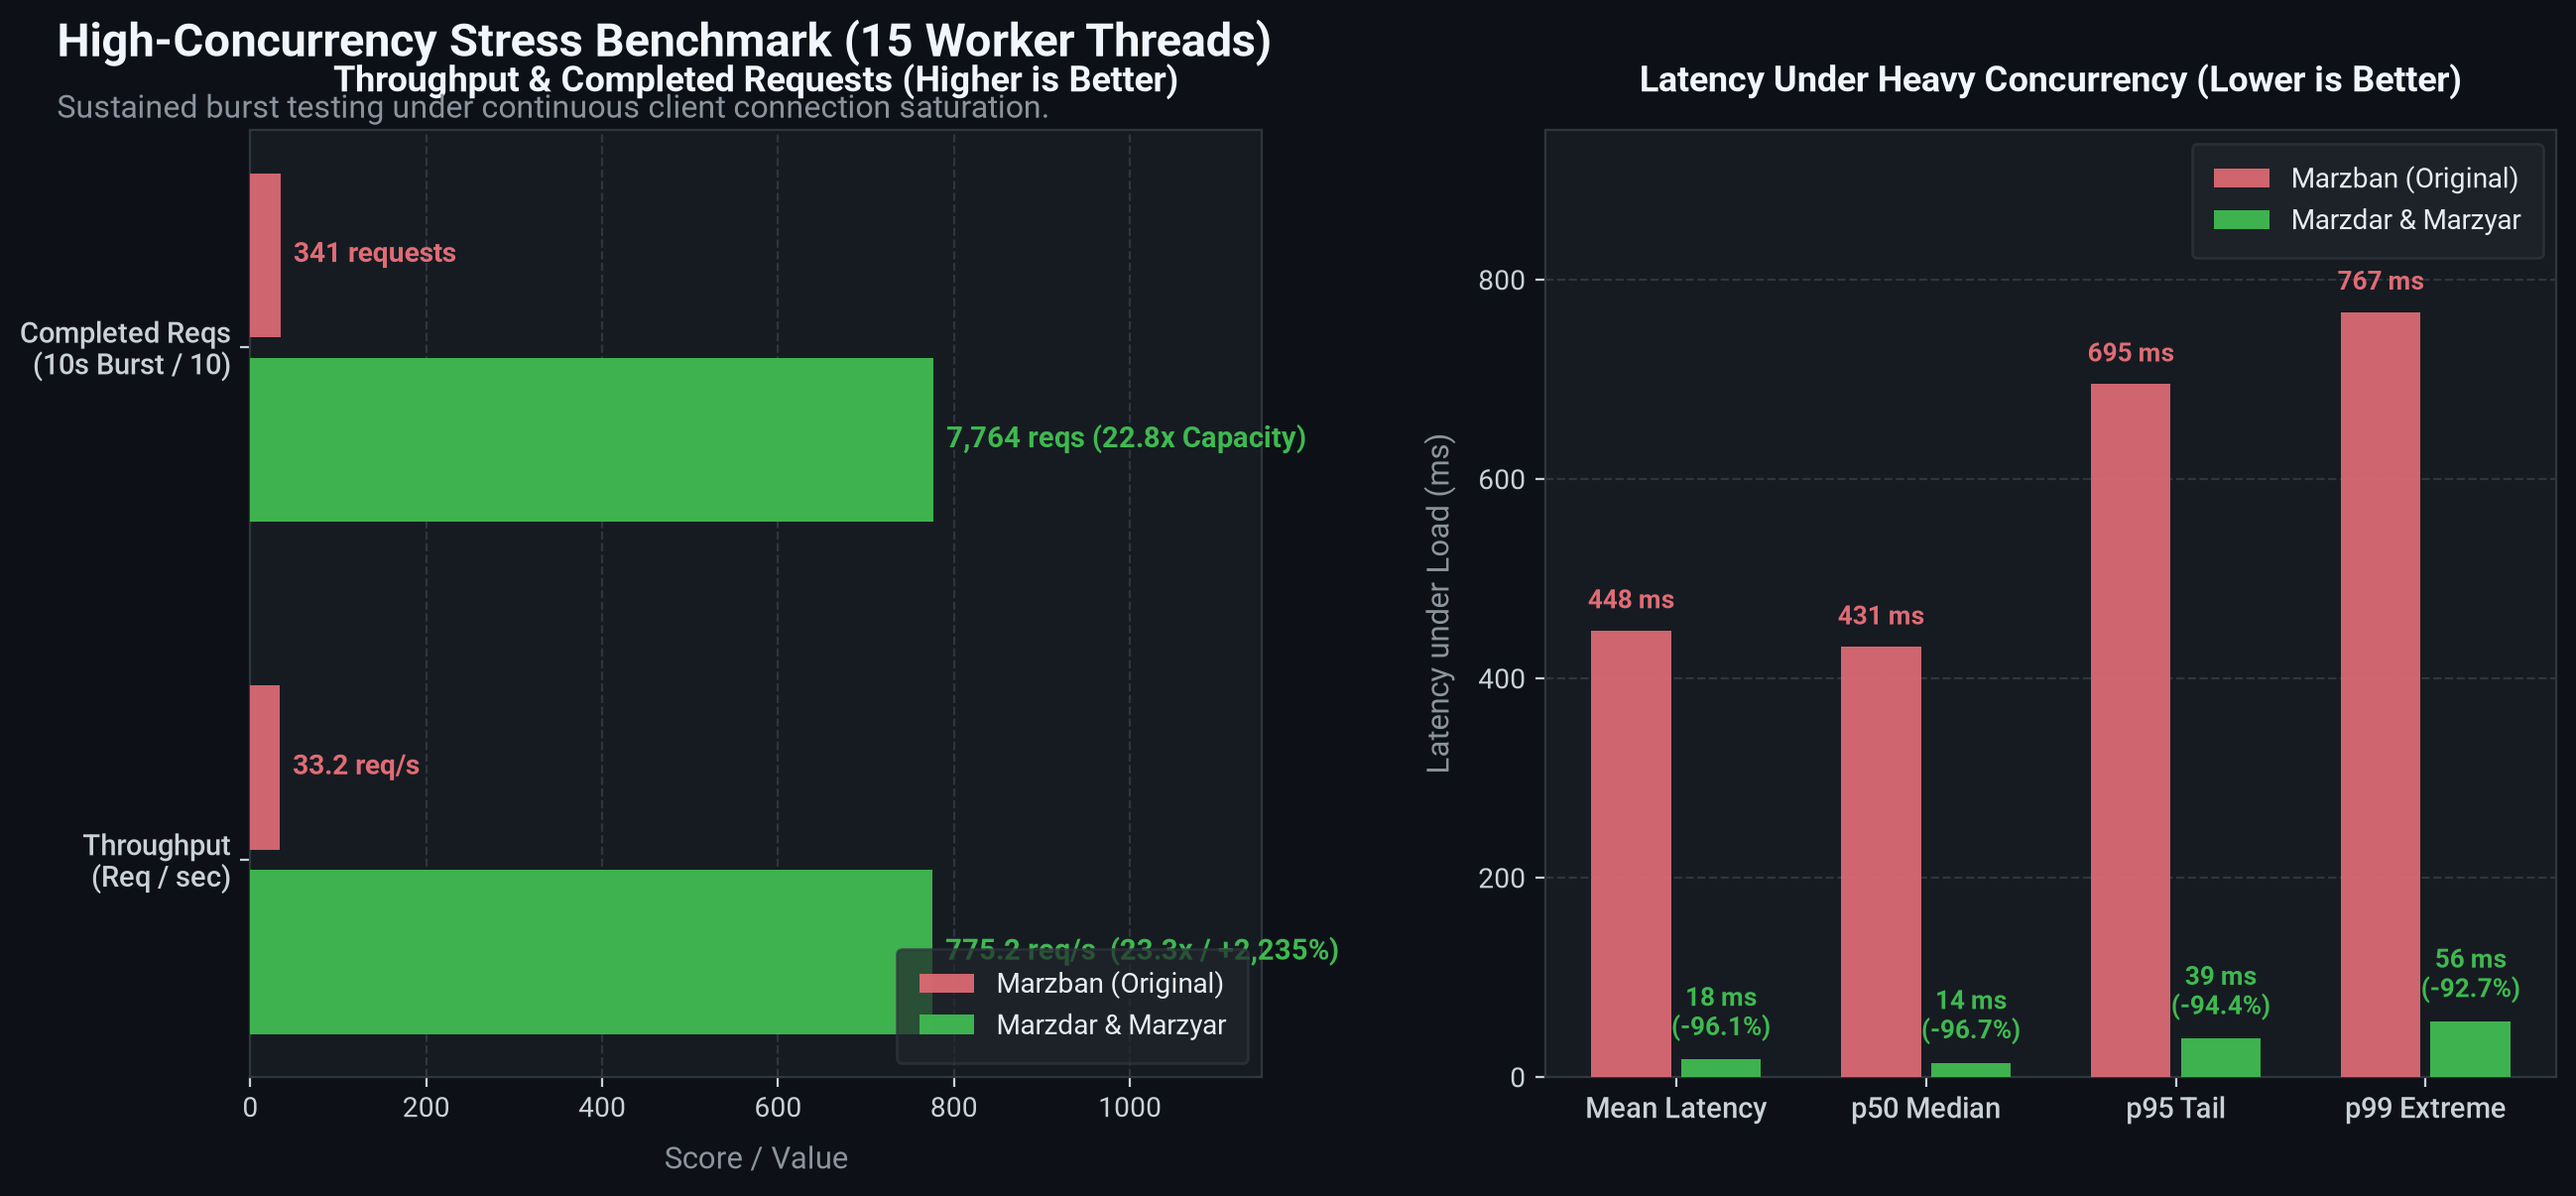
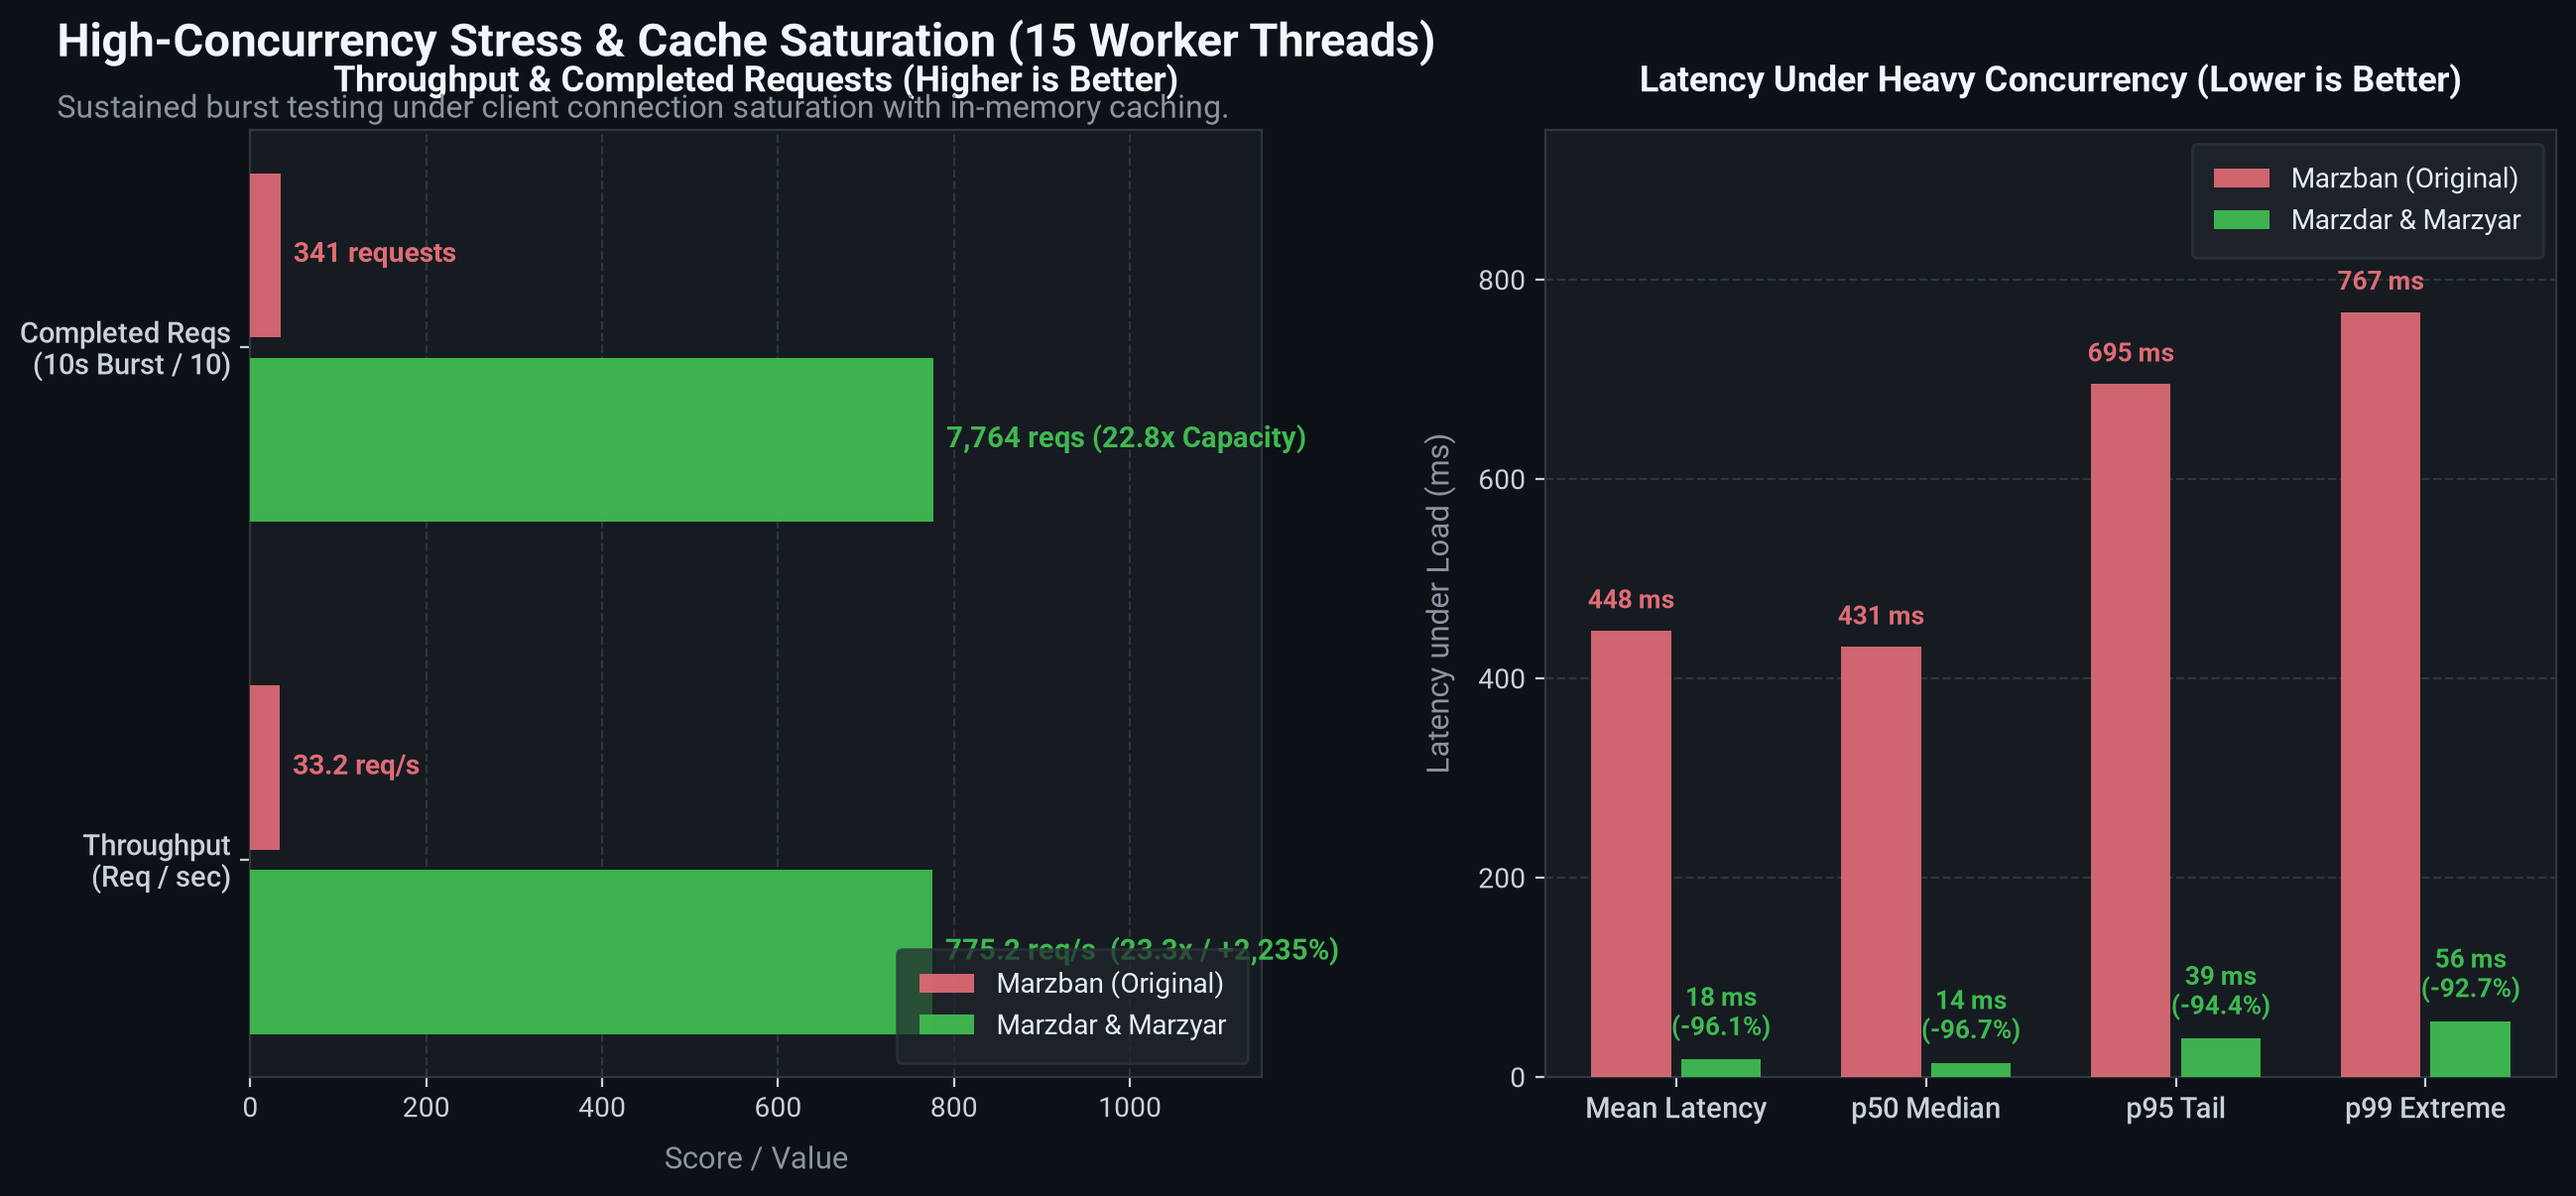
docs(benchmark): clarify cache saturation highlights and consolidate throughput metrics

Changed region(s): [[0.1871, 0.0, 0.5614, 0.1227]]

diff --git a/README-fa.md b/README-fa.md
@@ -300,11 +300,10 @@ curl -X GET "https://your-panel-domain:8000/api/marzyar/locked_users" \
 </p>
 
 ### شاخصهای کلیدی بهبود عملکرد:
-- ⚡ **۸.۶ برابر پاسخدهی سریعتر در میانه**: کاهش میانه (p50) تأخیر پاسخ اشتراک از ۴۶.۲۷ به ۵.۳۷ میلیثانیه (**۸۸.۴٪ سریعتر**).
-- 🚀 **۲,۲۳۵٪+ توان سرویسدهی همزمان بیشتر**: ثبت ۷۷۵.۲ درخواست در ثانیه در برابر ۳۳.۲ درخواست بر ثانیه در تست بار مداوم ۱۵ ورکر همزمان (**۲۳.۳ برابر ظرفیت پردازش**).
-- ⚡ **۹۶.۱٪ کاهش تأخیر زیر بار سنگین همزمان**: کاهش میانگین تأخیر درخواستها در تست بار شدید از ۴۴۷.۶۶ به ۱۷.۵۳ میلیثانیه (**۲۵.۵ برابر سریعتر**).
-- 🗄 **۳۱.۷٪ کاهش فشار بر دیتابیس MySQL**: کاهش جهش مصرف دیتابیس از ۵۳.۶۲٪ به ۳۶.۶۴٪ به کمک کش هوشمند رم و ایندکسهای مرکب حتی زیر بار ۳۶,۰۰۰ کوئری شبیهسازیشده.
-- 📦 **۲۲.۸ برابر ظرفیت سرویسدهی بیشتر**: ثبت ۷,۷۶۴ درخواست موفق در بازه ۱۰ ثانیهای در مقایسه با ۳۴۱ درخواست در مرزبان پایه.
+- ⚡ **۸.۶ برابر پاسخدهی سریعتر در میانه**: کاهش میانه (p50) تأخیر پاسخ اشتراک در مانیتورینگ زنده از ۴۶.۲۷ به ۵.۳۷ میلیثانیه (۸۸.۴٪- کاهش تأخیر).
+- 🚀 **۲۳.۳ برابر توان اشباع با کش حافظه**: ثبت **۷۷۵.۲ درخواست در ثانیه** (۷,۷۶۴ درخواست در ۱۰ ثانیه) در برابر **۳۳.۲ درخواست بر ثانیه** (۳۴۱ درخواست) زیر بار ۱۵ ورکر همزمان (۲,۲۳۵٪+ ظرفیت بیشتر با کش درونحافظهای).
+- ⚡ **۹۶.۱٪- کاهش تأخیر زیر بار سنگین**: کاهش میانگین تأخیر در بار متوالی از ۴۴۷.۶۶ به ۱۷.۵۳ میلیثانیه (۲۵.۵ برابر پاسخدهی سریعتر).
+- 🗄 **۳۱.۷٪ کاهش فشار بر دیتابیس MySQL**: مهار اوج مصرف پردازنده دیتابیس از ۵۳.۶۲٪ به ۳۶.۶۴٪ زیر بار پیوسته به کمک کش رم و ایندکسهای مرکب.
 - 🛡 **۲۵.۶٪ مهار اسپایکهای کندی**: کاهش شدیدترین جهش تأخیر از ۶۰۴.۳۶ به ۴۴۹.۶۳ میلیثانیه در بار پیوسته.
 
 ---
@@ -322,11 +321,11 @@ curl -X GET "https://your-panel-domain:8000/api/marzyar/locked_users" \
 
 | صدک تأخیر (Percentile) | مرزبان اصلی (پیشفرض / Baseline) | مرزدار و مرزیار (بهینهسازیشده) | میزان بهبود |
 | :--- | :--- | :--- | :--- |
-| **میانه (p50 Median)** | **۴۶.۲۷ میلیثانیه** | **۵.۳۷ میلیثانیه** | **۸۸.۴٪- سریعتر (۸.۶ برابر)** |
-| **صدک ۷۵ (p75)** | **۶۰.۸۹ میلیثانیه** | **۸.۳۹ میلیثانیه** | **۸۶.۲٪- سریعتر (۷.۳ برابر)** |
-| **صدک ۹۰ (p90)** | **۷۶.۲۱ میلیثانیه** | **۱۳.۸۱ میلیثانیه** | **۸۱.۹٪- سریعتر (۵.۵ برابر)** |
-| **صدک ۹۵ (p95)** | **۹۳.۰۸ میلیثانیه** | **۲۳.۳۵ میلیثانیه** | **۷۴.۹٪- سریعتر (۴.۰ برابر)** |
-| **میانگین کل (Mean)** | **۵۳.۳۸ میلیثانیه** | **۱۲.۲۵ میلیثانیه** | **۷۷.۱٪- سریعتر (۴.۴ برابر)** |
+| **میانه (p50 Median)** | **۴۶.۲۷ میلیثانیه** | **۵.۳۷ میلیثانیه** | **۸۸.۴٪- کاهش تأخیر (۸.۶ برابر)** |
+| **صدک ۷۵ (p75)** | **۶۰.۸۹ میلیثانیه** | **۸.۳۹ میلیثانیه** | **۸۶.۲٪- کاهش تأخیر (۷.۳ برابر)** |
+| **صدک ۹۰ (p90)** | **۷۶.۲۱ میلیثانیه** | **۱۳.۸۱ میلیثانیه** | **۸۱.۹٪- کاهش تأخیر (۵.۵ برابر)** |
+| **صدک ۹۵ (p95)** | **۹۳.۰۸ میلیثانیه** | **۲۳.۳۵ میلیثانیه** | **۷۴.۹٪- کاهش تأخیر (۴.۰ برابر)** |
+| **میانگین کل (Mean)** | **۵۳.۳۸ میلیثانیه** | **۱۲.۲۵ میلیثانیه** | **۷۷.۱٪- کاهش تأخیر (۴.۴ برابر)** |
 
 ```
 نمودار تأخیر پاسخدهی اشتراکها (میلیثانیه - کمتر بهتر است):
@@ -362,13 +361,13 @@ curl -X GET "https://your-panel-domain:8000/api/marzyar/locked_users" \
 </details>
 
 <details>
-<summary><b>۳. تست بار و بنچمارک فشار همزمان (۲,۲۳۵٪+ ظرفیت خروجی بیشتر)</b></summary>
+<summary><b>۳. تست بار و اشباع کش همزمان (۲۳.۳ برابر توان پاسخگویی بیشتر)</b></summary>
 
 <p align="center">
   <img src="docs/assets/benchmark-stress.png" alt="بنچمارک تست فشار و بار همزمان" width="850" height="auto">
 </p>
 
-تست بار سنگین همزمان جهت سنجش ظرفیت تولید اشتراک تحت فشار متوالی (۱۵ ورکر همزمان، به مدت ۱۰ ثانیه کامل):
+تست بار همزمان جهت سنجش ظرفیت پاسخدهی اندپوینت اشتراک با کش حافظه تحت فشار متوالی (۱۵ ورکر همزمان، به مدت ۱۰ ثانیه کامل):
 
 | شاخص بنچمارک | مرزبان اصلی (Uvicorn / بدون کش) | مرزدار و مرزیار (Granian + کش + ایندکسها) | تأثیر و نتیجه |
 | :--- | :--- | :--- | :--- |

diff --git a/README.md b/README.md
@@ -313,12 +313,11 @@ Both **Marzdar** and **Marzyar** incorporate high-performance architectural opti
 </p>
 
 ### Key Performance Highlights:
-- ⚡ **8.6x Faster Median Response**: Median (p50) subscription latency reduced from 46.27 ms to 5.37 ms (**88.4% faster**).
-- 🚀 **+2,235% Higher Concurrency Throughput**: Handled 775.2 req/s vs 33.2 req/s under sustained 15-worker load (**23.3x total capacity**).
-- ⚡ **96.1% Latency Drop Under Concurrency Load**: Average latency under sustained heavy stress dropped from 447.66 ms to 17.53 ms (**25.5x faster**).
-- 🗄 **31.7% Database Burden Reduction**: MySQL peak CPU spikes reduced from 53.62% down to 36.64% thanks to in-memory caching and compound indexes.
-- 📦 **22.8x Greater Request Servicing**: Serviced 7,764 complete requests in a 10-second burst window vs. 341 on baseline Marzban.
-- 🛡 **25.6% Reduction in Tail Spikes**: Max latency spike dropped from 604.36 ms down to 449.63 ms under continuous saturation.
+- ⚡ **8.6x Faster Median Response**: Live telemetry median (p50) subscription latency reduced from 46.27 ms down to 5.37 ms (-88.4% lower latency).
+- 🚀 **23.3x Cache Saturation Throughput**: Serviced **775.2 req/s** (7,764 requests in 10s) vs **33.2 req/s** (341 requests) under sustained 15-worker concurrency (+2,235% capacity via in-memory caching).
+- ⚡ **96.1% Lower Latency Under Load**: Average latency under sustained heavy concurrency dropped from 447.66 ms down to 17.53 ms (25.5x faster response).
+- 🗄 **31.7% Lower Database Load**: MySQL peak CPU spikes reduced from 53.62% down to 36.64% under active query traffic thanks to in-memory caching and compound indexes.
+- 🛡 **25.6% Tail Spike Suppression**: Maximum latency spike suppressed from 604.36 ms down to 449.63 ms under continuous saturation.
 
 ---
 
@@ -375,13 +374,13 @@ Continuous metrics recorded under active live production load:
 </details>
 
 <details>
-<summary><b>3. High-Concurrency Stress Benchmark (+2,235% Throughput Capacity)</b></summary>
+<summary><b>3. High-Concurrency Stress & Cache Saturation Benchmark (23.3x Throughput)</b></summary>
 
 <p align="center">
   <img src="docs/assets/benchmark-stress.png" alt="High Concurrency Stress Benchmark" width="850" height="auto">
 </p>
 
-Standardized burst test evaluating subscription endpoint capacity under sustained concurrency (15 worker threads, 10 seconds continuous load):
+Standardized burst test evaluating subscription endpoint capacity under sustained concurrency with in-memory caching (15 worker threads, 10 seconds continuous load):
 
 | Benchmark Metric | Marzban (Baseline: Uvicorn / No Cache) | Marzdar & Marzyar (Granian + Cache + Indexes) | Impact |
 | :--- | :--- | :--- | :--- |
